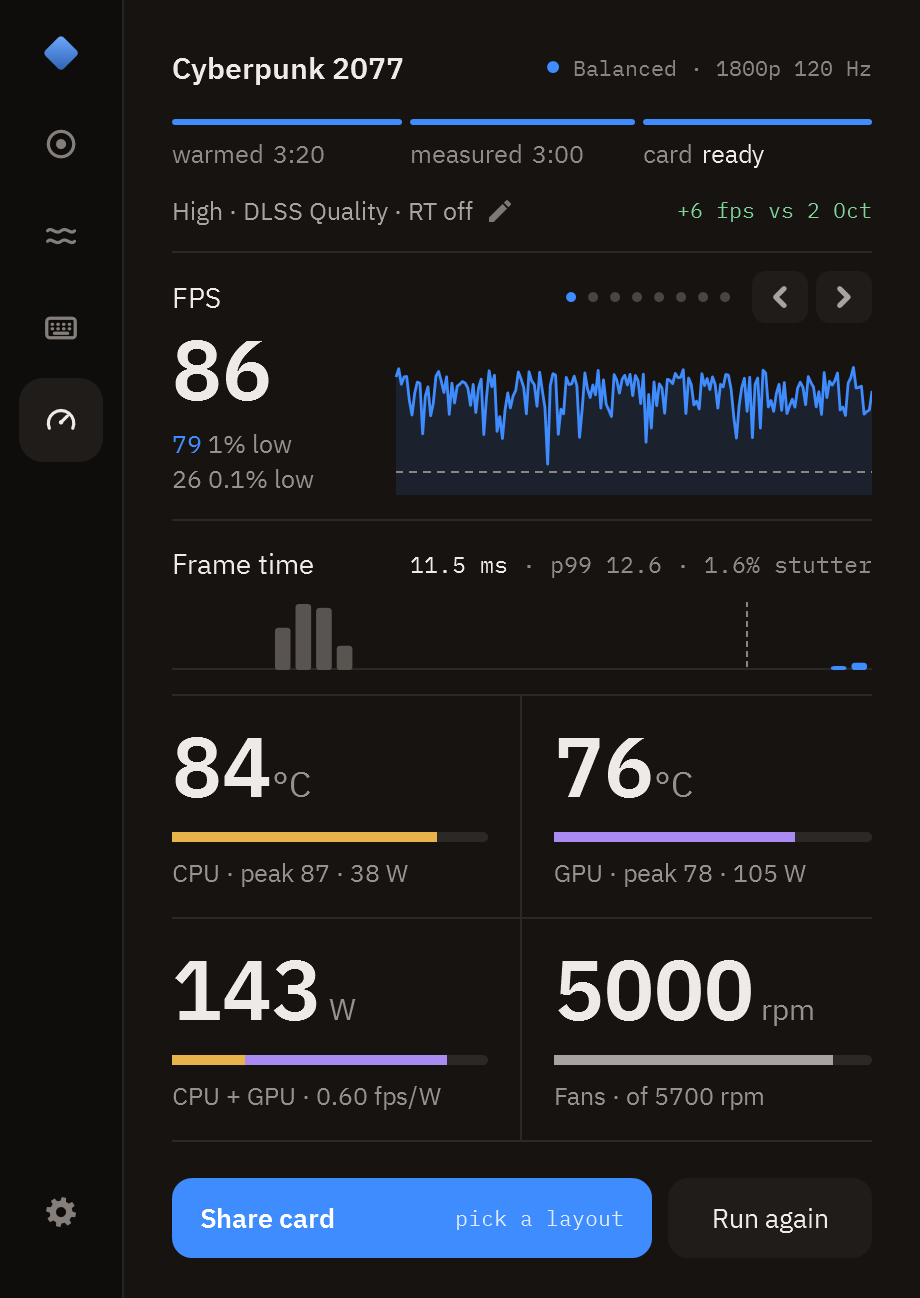
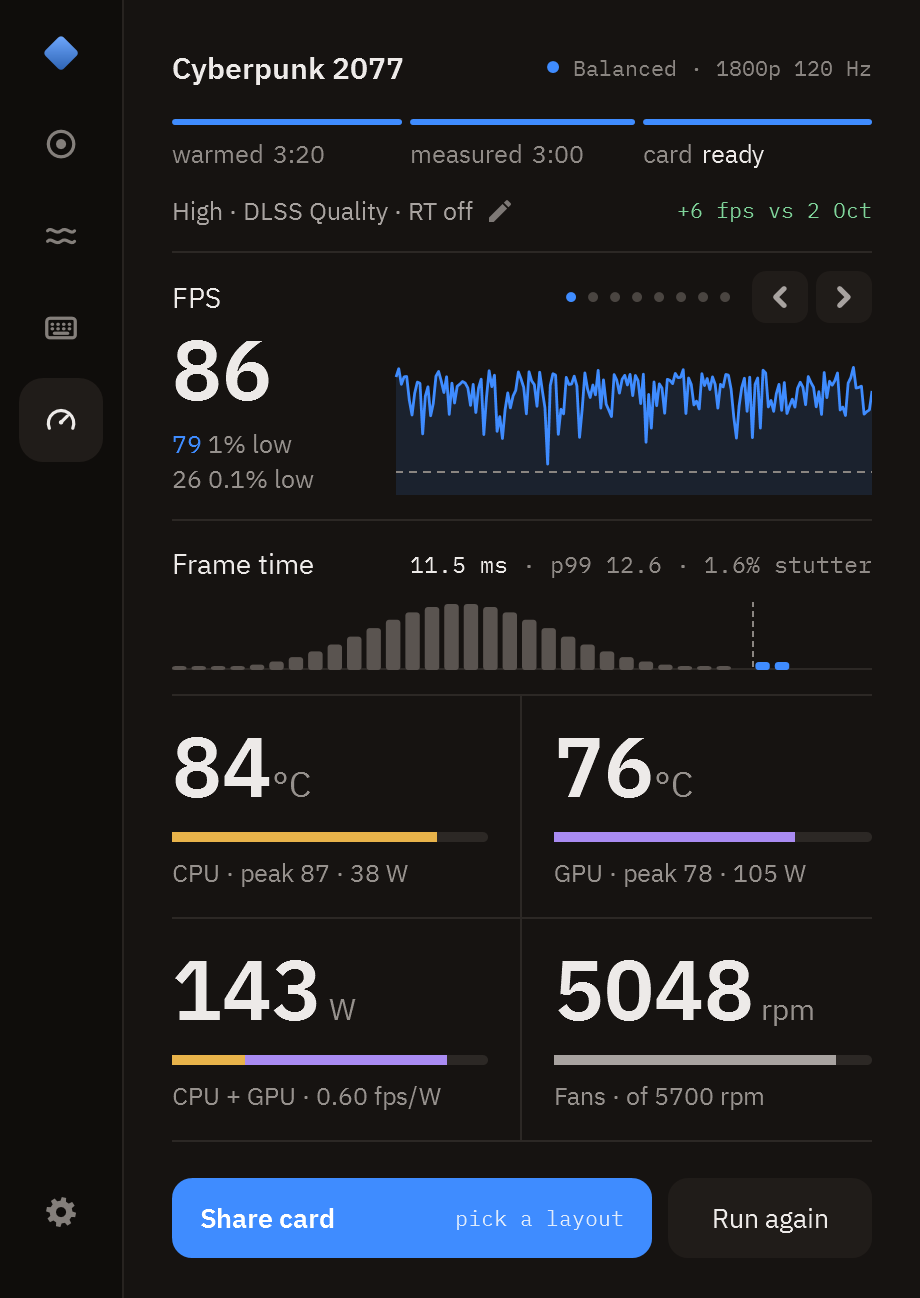
Frame time chart fills its width: bars span where the frames are, stutter frames apart on the right

diff --git a/src/BenchUi.cs b/src/BenchUi.cs
@@ -110,7 +110,7 @@ namespace Ohman {
 
     /// <summary>The frame-time histogram, or a line saying why there is none yet.</summary>
     sealed class FrameHist : FrameworkElement {
-        public double[] Bins;                     // 0..1 each, already on a square-root scale; null = show Hint
+        public double[] Bins;                     // 0..1 each, in proportion to the tallest; null = show Hint
         public int Slow = -1;                     // first bin past the stutter line: drawn in the accent
         public string Hint = "";
         static Typeface face;
@@ -133,9 +133,10 @@ namespace Ohman {
             var acc = Ui.Accent;
             dc.DrawLine(new Pen(Ink.LineB, 1), new Point(0, H - 0.5), new Point(W, H - 0.5));
             for (int i = 0; i < n; i++) {
-                double h = Math.Max(2, Bins[i] * (H - 1));
                 if (Bins[i] <= 0) continue;
-                dc.DrawRoundedRectangle(Slow >= 0 && i >= Slow ? (Brush)acc : bin, null, new Rect(i * pitch, H - h, bw, h), 1.5, 1.5);
+                bool late = Slow >= 0 && i >= Slow;
+                double h = Math.Max(late ? 4 : 2, Bins[i] * (H - 1));             // a slow frame is never too small to see
+                dc.DrawRoundedRectangle(late ? (Brush)acc : bin, null, new Rect(i * pitch, H - h, bw, h), 1.5, 1.5);
             }
             if (Slow > 0) {
                 double x = Math.Round(Slow * pitch - 1.25) + 0.5;
@@ -143,49 +144,59 @@ namespace Ohman {
             }
         }
 
-        /// <summary>34 bins from half the median frame time to three times it, the first and last taking everything
-        /// beyond, on a square-root scale so the slow tail (the point of the chart) is visible beside the peak. The
-        /// line sits at 2.5 times the median, where the stutter rule starts to count.</summary>
+        /// <summary>The bars fill the width: the body spans where the frames actually are (the fastest half percent to
+        /// the 99th percentile, on 0.1 ms steps, the resolution a stored run keeps), and anything slower than 2.5 times
+        /// the median, where the stutter rule starts to count, sits apart on the right in the accent behind a line.
+        /// Heights in proportion; the slow frames are never drawn too small to see.</summary>
         public void From(List<double> ft) {
             if (ft == null || ft.Count < 30) { Bins = null; return; }
             var x = ft.ToArray(); Array.Sort(x);
-            double med = x[x.Length / 2];
-            Fill(med, delegate(Action<double, int> add) { foreach (double v in ft) add(v, 1); });
+            Build(x, null, x[x.Length / 2]);
         }
         public void From(int[] hist, double median) {
             if (hist == null || hist.Length == 0 || !(median > 0)) { Bins = null; return; }
-            const int N = 34;
-            double lo = median * 0.5, top = median * 3, w = (top - lo) / N;
-            var c = new double[N];
+            var v = new List<double>(); var w = new List<double>();
             for (int i = 0; i < hist.Length; i++) {
                 if (hist[i] <= 0) continue;
-                double a = i / 10.0, b = a + 0.1;
-                if (i == hist.Length - 1 && i >= 1000) b = Math.Max(b, top);            // the 100 ms+ bin
-                if (b <= lo) { c[0] += hist[i]; continue; }
-                if (a >= top) { c[N - 1] += hist[i]; continue; }
-                double span = b - a;
-                if (a < lo) { c[0] += hist[i] * (lo - a) / span; a = lo; }
-                if (b > top) { c[N - 1] += hist[i] * (b - top) / span; b = top; }
-                for (int k = (int)((a - lo) / w); k < N && lo + k * w < b; k++) {
-                    double x0 = Math.Max(a, lo + k * w), x1 = Math.Min(b, lo + (k + 1) * w);
-                    if (x1 > x0) c[k] += hist[i] * (x1 - x0) / span;
-                }
+                v.Add(i >= 1000 ? Math.Max(100, median * 4) : i / 10.0 + 0.05);           // the last bin is everything from 100 ms
+                w.Add(hist[i]);
             }
-            Scale(c);
+            if (v.Count == 0) { Bins = null; return; }
+            Build(v.ToArray(), w.ToArray(), median);
         }
-        void Fill(double med, Action<Action<double, int>> each) {
-            const int N = 34;
-            double lo = med * 0.5, top = med * 3;
-            var c = new double[N];
-            each(delegate(double v, int k) { int b = (int)((v - lo) / (top - lo) * N); c[Math.Max(0, Math.Min(N - 1, b))] += k; });
+        /// <summary>v ascending; wt null means one frame each.</summary>
+        void Build(double[] v, double[] wt, double med) {
+            double total = 0;
+            for (int i = 0; i < v.Length; i++) total += wt == null ? 1 : wt[i];
+            Func<double, double> q = delegate(double pr) {
+                double want = pr * total, acc = 0;
+                for (int i = 0; i < v.Length; i++) { acc += wt == null ? 1 : wt[i]; if (acc >= want) return v[i]; }
+                return v[v.Length - 1];
+            };
+            double thr = med * 2.5, lo = q(0.005), hi = Math.Min(q(0.99), thr);
+            double pad = Math.Max(hi - lo, med * 0.1) * 0.1;
+            lo = Math.Max(0, Math.Floor((lo - pad) * 10) / 10);
+            hi = Math.Min(thr, hi + pad);
+            if (hi - lo < 0.8) hi = Math.Min(thr, lo + 0.8);                               // at least eight steps
+            int k = Math.Max(1, (int)Math.Ceiling((hi - lo) / 0.1 / 40));                     // 0.1 ms steps, at most 40 bars
+            double bw = k * 0.1;
+            int n = Math.Max(1, (int)Math.Ceiling((hi - lo) / bw - 1e-9));
+            bool slow = v[v.Length - 1] >= thr;
+            const int SlowBins = 6;                                                            // 2.5x to 4x the median, the last taking the rest
+            var c = new double[n + (slow ? 1 + SlowBins : 0)];
+            for (int i = 0; i < v.Length; i++) {
+                double x = v[i], cnt = wt == null ? 1 : wt[i];
+                if (x >= thr) c[n + 1 + Math.Min(SlowBins - 1, (int)((x - thr) / (med * 0.25)))] += cnt;
+                else c[Math.Max(0, Math.Min(n - 1, (int)((x - lo) / bw)))] += cnt;
+            }
+            Slow = slow ? n + 1 : -1;
             Scale(c);
         }
         void Scale(double[] c) {
             int N = c.Length;
             double max = 0; foreach (double v in c) max = Math.Max(max, v);
             Bins = new double[N];
-            for (int i = 0; i < N; i++) Bins[i] = max > 0 && c[i] > 0 ? Math.Sqrt(c[i] / max) : 0;
-            Slow = (int)Math.Ceiling((2.5 - 0.5) / (3 - 0.5) * N);
+            for (int i = 0; i < N; i++) Bins[i] = max > 0 && c[i] > 0 ? c[i] / max : 0;   // in proportion: the peak is the shape worth seeing
             Repaint();
         }
     }

diff --git a/src/Bench.cs b/src/Bench.cs
@@ -320,7 +320,7 @@ namespace Ohman {
         void Run() {
             var rnd = new Random(7);
             while (!stop) {
-                double ms = 11.5 + (rnd.NextDouble() - 0.5) * 3 + (rnd.NextDouble() < 0.004 ? 30 : 0);
+                double ms = 11.5 + (rnd.NextDouble() + rnd.NextDouble() + rnd.NextDouble() - 1.5) * 1.6 + (rnd.NextDouble() < 0.004 ? 30 : 0);   // a peak, like a game
                 Thread.Sleep((int)ms);
                 var h = Row;
                 if (h != null) h(new FrameRow { Pid = pid, Qpc = Stopwatch.GetTimestamp(), Ms = ms, Displayed = true, DisplayMs = ms, Swap = 1, Mode = 2 });
@@ -1001,7 +1001,7 @@ namespace Ohman {
                     var b = new BenchSample { T = i, Fps = 87 + (rnd.NextDouble() - 0.5) * 11 - (rnd.NextDouble() < 0.04 ? 20 : 0), CpuT = 84 + (rnd.NextDouble() - 0.5) * 5, GpuT = 76 + rnd.NextDouble() * 2,
                         CpuW = 38 + (rnd.NextDouble() - 0.5) * 6, GpuW = 105 + (rnd.NextDouble() - 0.5) * 6, CpuMhz = 4200 + (rnd.NextDouble() - 0.5) * 200, GpuLoad = 96 + (rnd.NextDouble() - 0.5) * 6, GpuMhz = 2100, Fan1 = 49, Fan2 = 51 };
                     Live.Add(b);
-                    for (int k = 0; k < 87; k++) frames.Add(new FrameRow { Pid = OwnPid, Qpc = q, Ms = 11.5 + (rnd.NextDouble() - 0.5) * 3 + (rnd.NextDouble() < 0.004 ? 30 : 0), DisplayMs = 11.5, Displayed = true, Swap = 1, Mode = 2 });
+                    for (int k = 0; k < 87; k++) frames.Add(new FrameRow { Pid = OwnPid, Qpc = q, Ms = 11.5 + (rnd.NextDouble() + rnd.NextDouble() + rnd.NextDouble() - 1.5) * 1.6 + (rnd.NextDouble() < 0.004 ? 30 : 0), DisplayMs = 11.5, Displayed = true, Swap = 1, Mode = 2 });
                 }
                 MeasuredSec = 72;
             }
